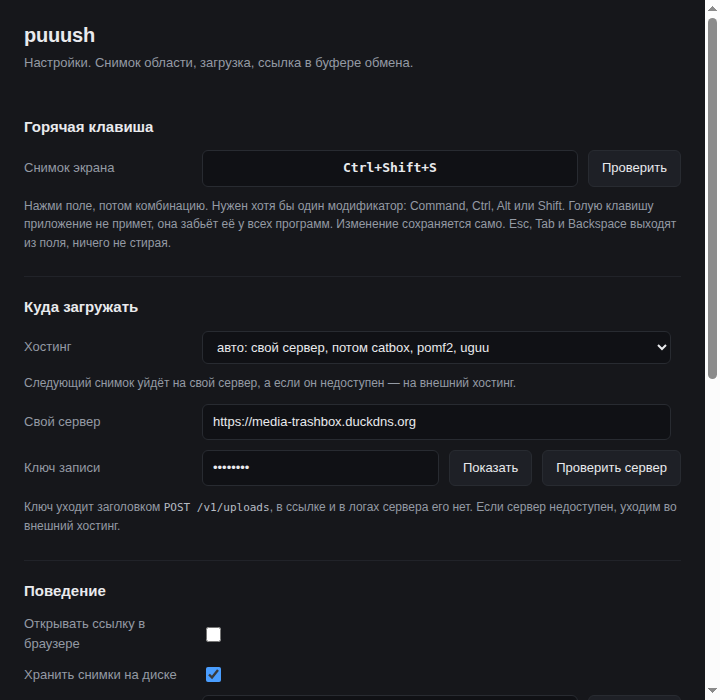
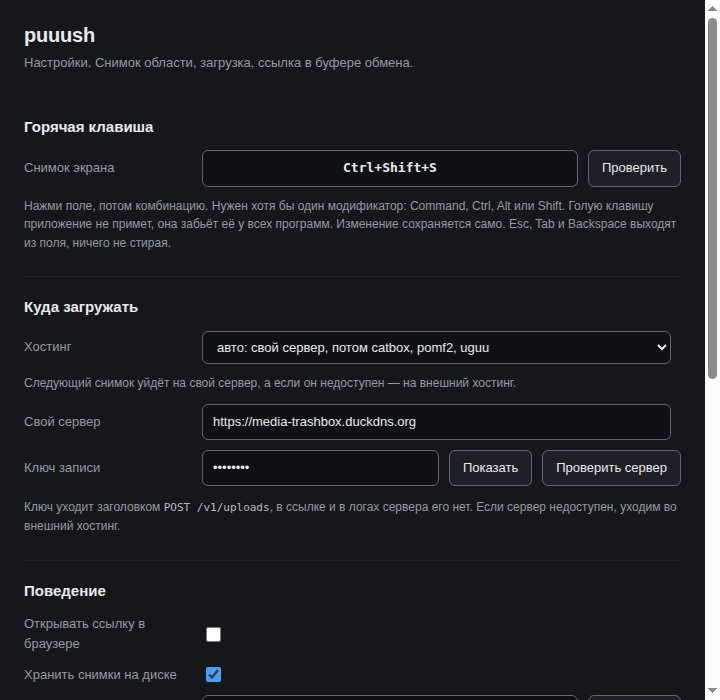
Границы элементов управления до порога WCAG 1.4.11
Вердикт B нашёл шесть границ ниже 3:1. Рамка поля как статический
идентификатор элемента управления подпадает под 1.4.11, и 1.26:1 её не
проходит. Поднято:

- рамка поля и пунктир зоны перетаскивания: 1.33 -> 3.27 к фону поля
- рамка статуса ok: 2.13 -> 4.61, bad: 1.56 -> 3.69
- рамка баннера поломки: 1.47 -> 3.40

Волосяные линии-разделители под 1.4.11 не подпадают, они остались тихими:
иначе окно снова станет полосатым.

Заодно исправлено число в комментарии: заявлено было 5.1:1, фактически
5.42:1.

Находка F1 из того же вердикта про privacyDowngraded на пути возврата
uploadFile закрыта предыдущим коммитом: оценка B вердилась по байтам до него.

Changed region(s): [[0.275, 0.99, 0.9472, 1.0]]

diff --git a/src/settings.html b/src/settings.html
@@ -8,8 +8,8 @@
 <style>
   :root {
     --bg: #16171b;
-    --line: #282b31;
-    --line-soft: #212329;
+    --line: #5f6673; /* 3.27:1 на поле, 3.10:1 на фоне: WCAG 1.4.11 */
+    --line-soft: #212329; /* разделитель, правило 1.4.11 не применяется */
     --text: #e9eaed;
     --dim: #949aa4;
     --accent: #4a9eff;
@@ -57,7 +57,7 @@
     padding: 7px 10px;
     font: inherit;
   }
-  /* 5.1:1. Прежние #6c727c давали 3.90:1, ниже порога AA. */
+  /* 5.42:1 к фону поля. Прежние #6c727c давали 3.90:1, ниже порога AA. */
   input::placeholder { color: #838a94; }
   input:focus, select:focus {
     outline: none;
@@ -106,7 +106,7 @@
     display: none;
     margin: 16px 0 0;
     padding: 12px 14px;
-    border: 1px solid #46302f;
+    border: 1px solid #a35555; /* 3.40:1 */
     border-radius: 8px;
     background: #1e1919;
     color: #e7cfcd;
@@ -122,8 +122,8 @@
     display: none; white-space: pre-wrap; word-break: break-all;
   }
   #status.show { display: block; }
-  #status.ok { border-color: #2c5238; color: #8ed3a8; }
-  #status.bad { border-color: #4a2f2e; color: var(--bad); }
+  #status.ok { border-color: #468b62; /* 4.61:1 */ color: #8ed3a8; }
+  #status.bad { border-color: #a05a5a; /* 3.69:1 */ color: var(--bad); }
 
   #drop {
     border: 1px dashed var(--line); border-radius: 7px;
